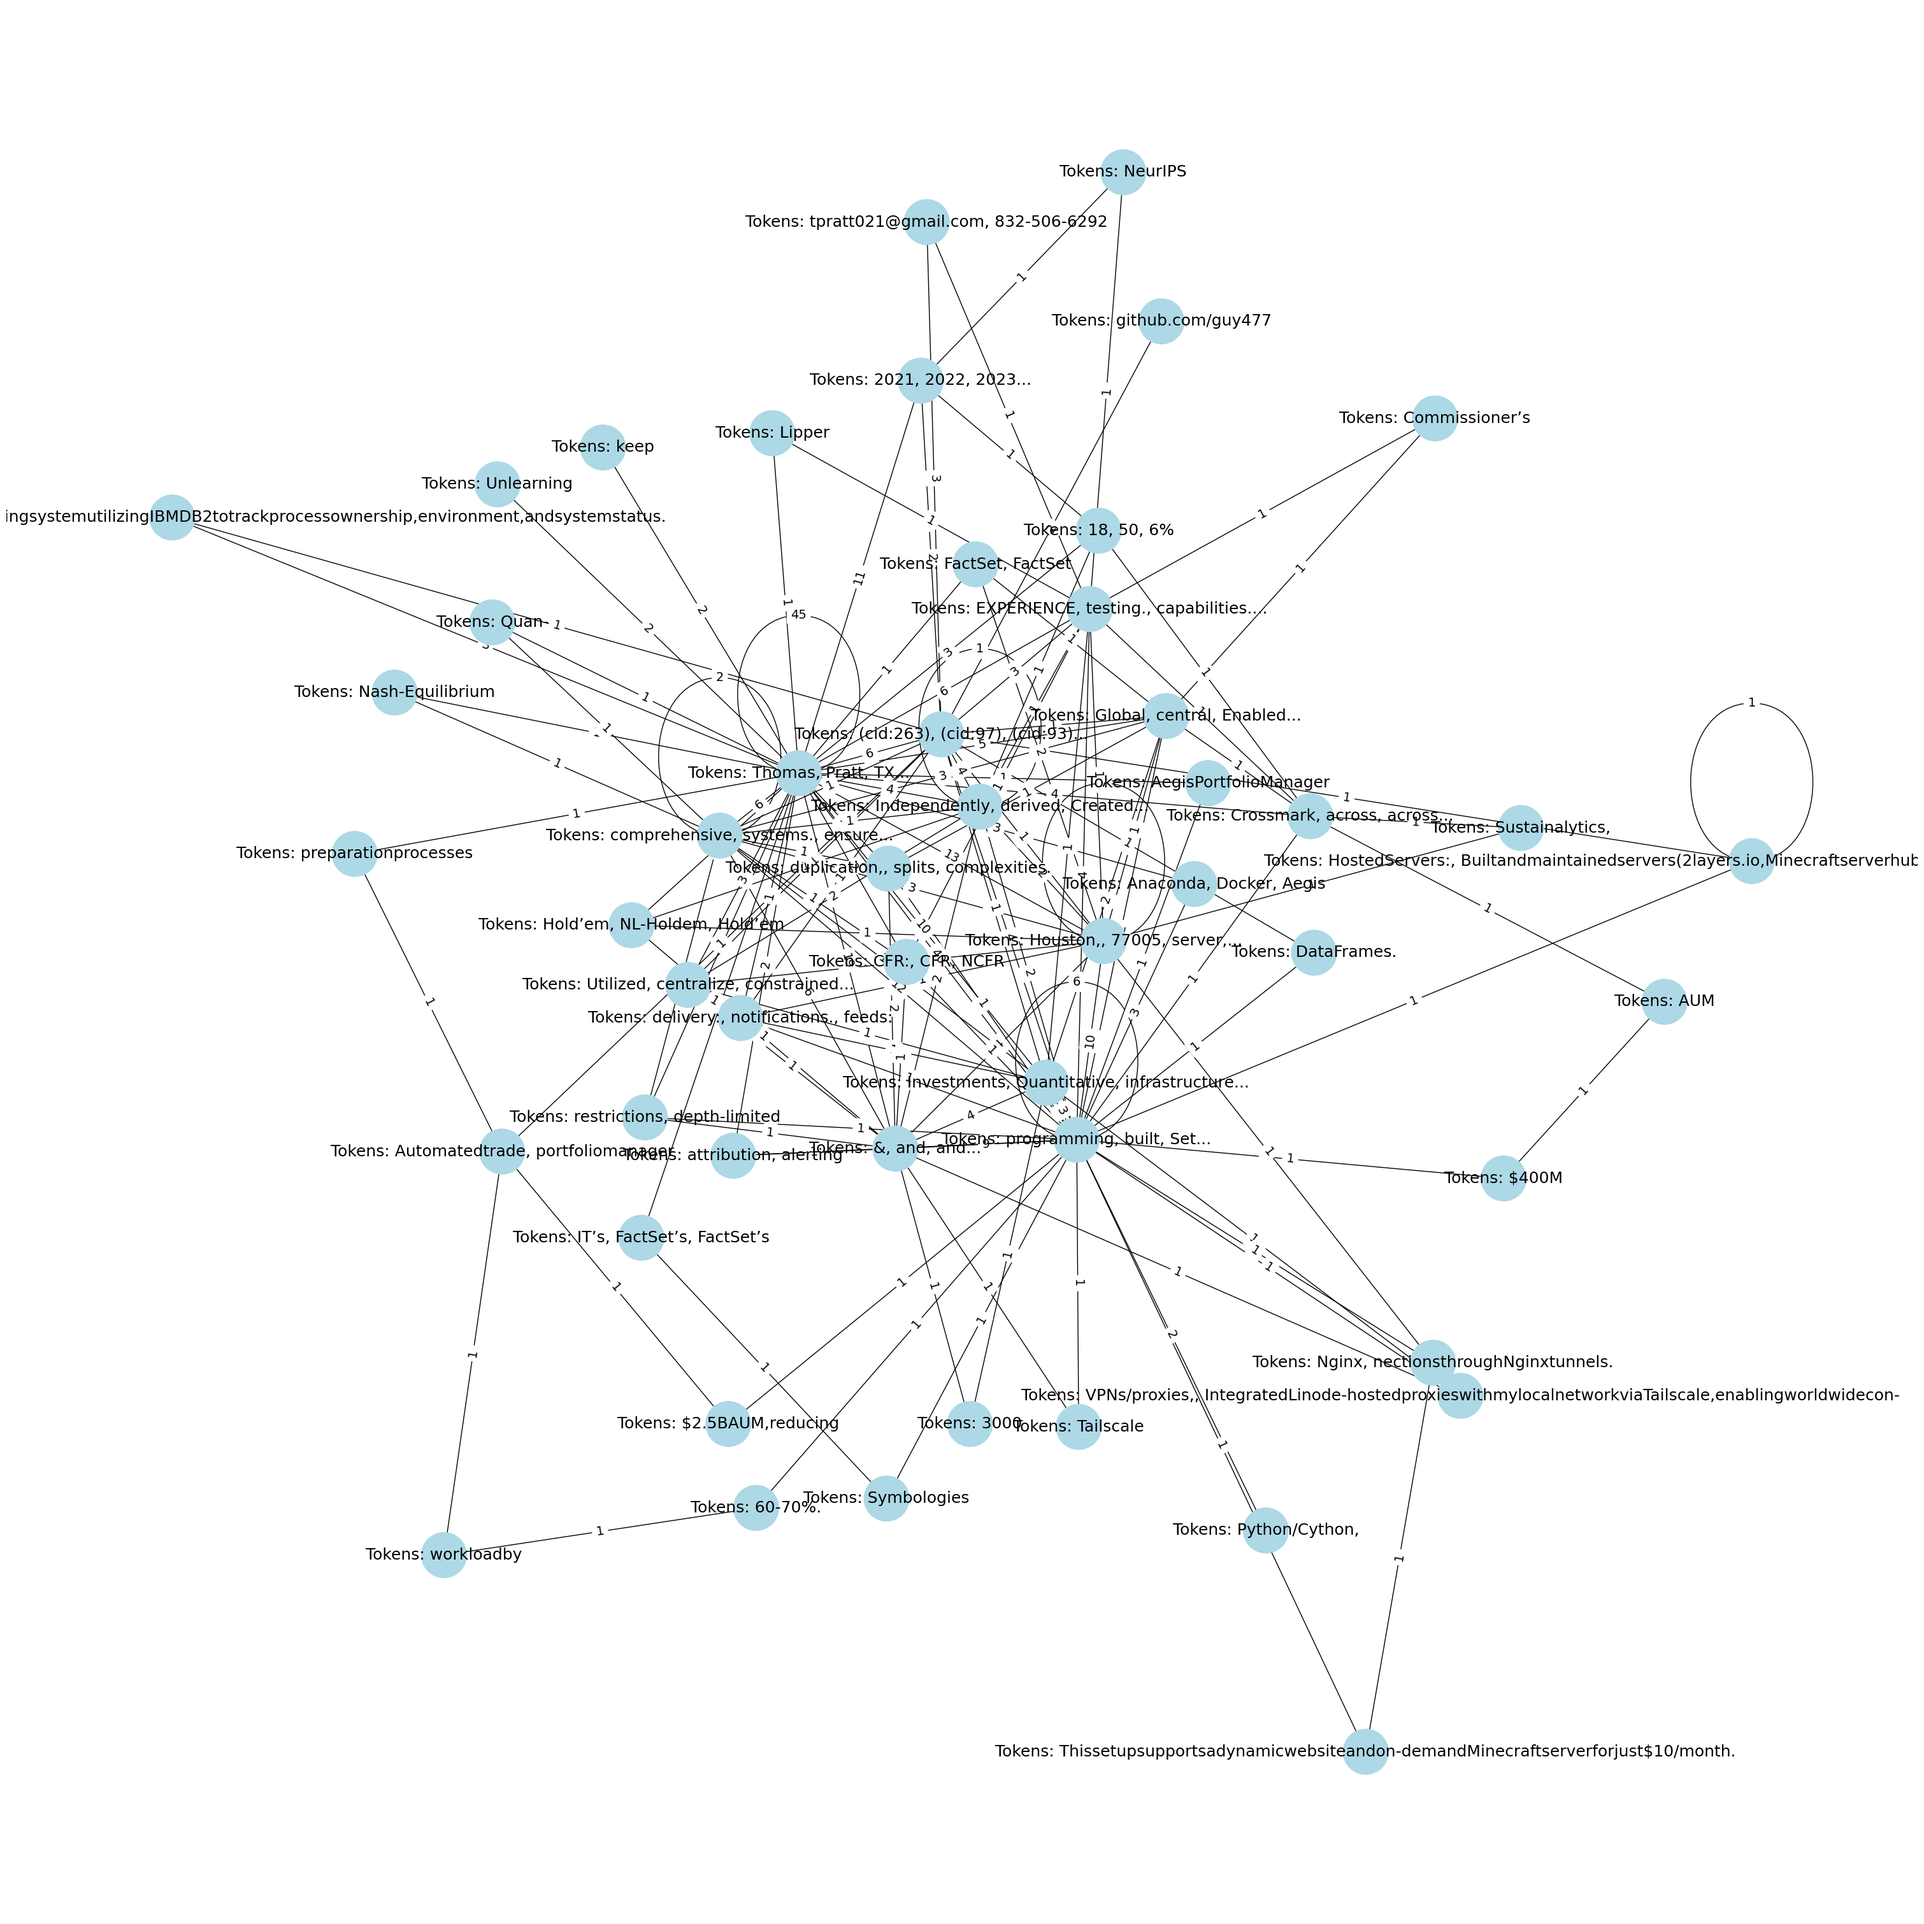
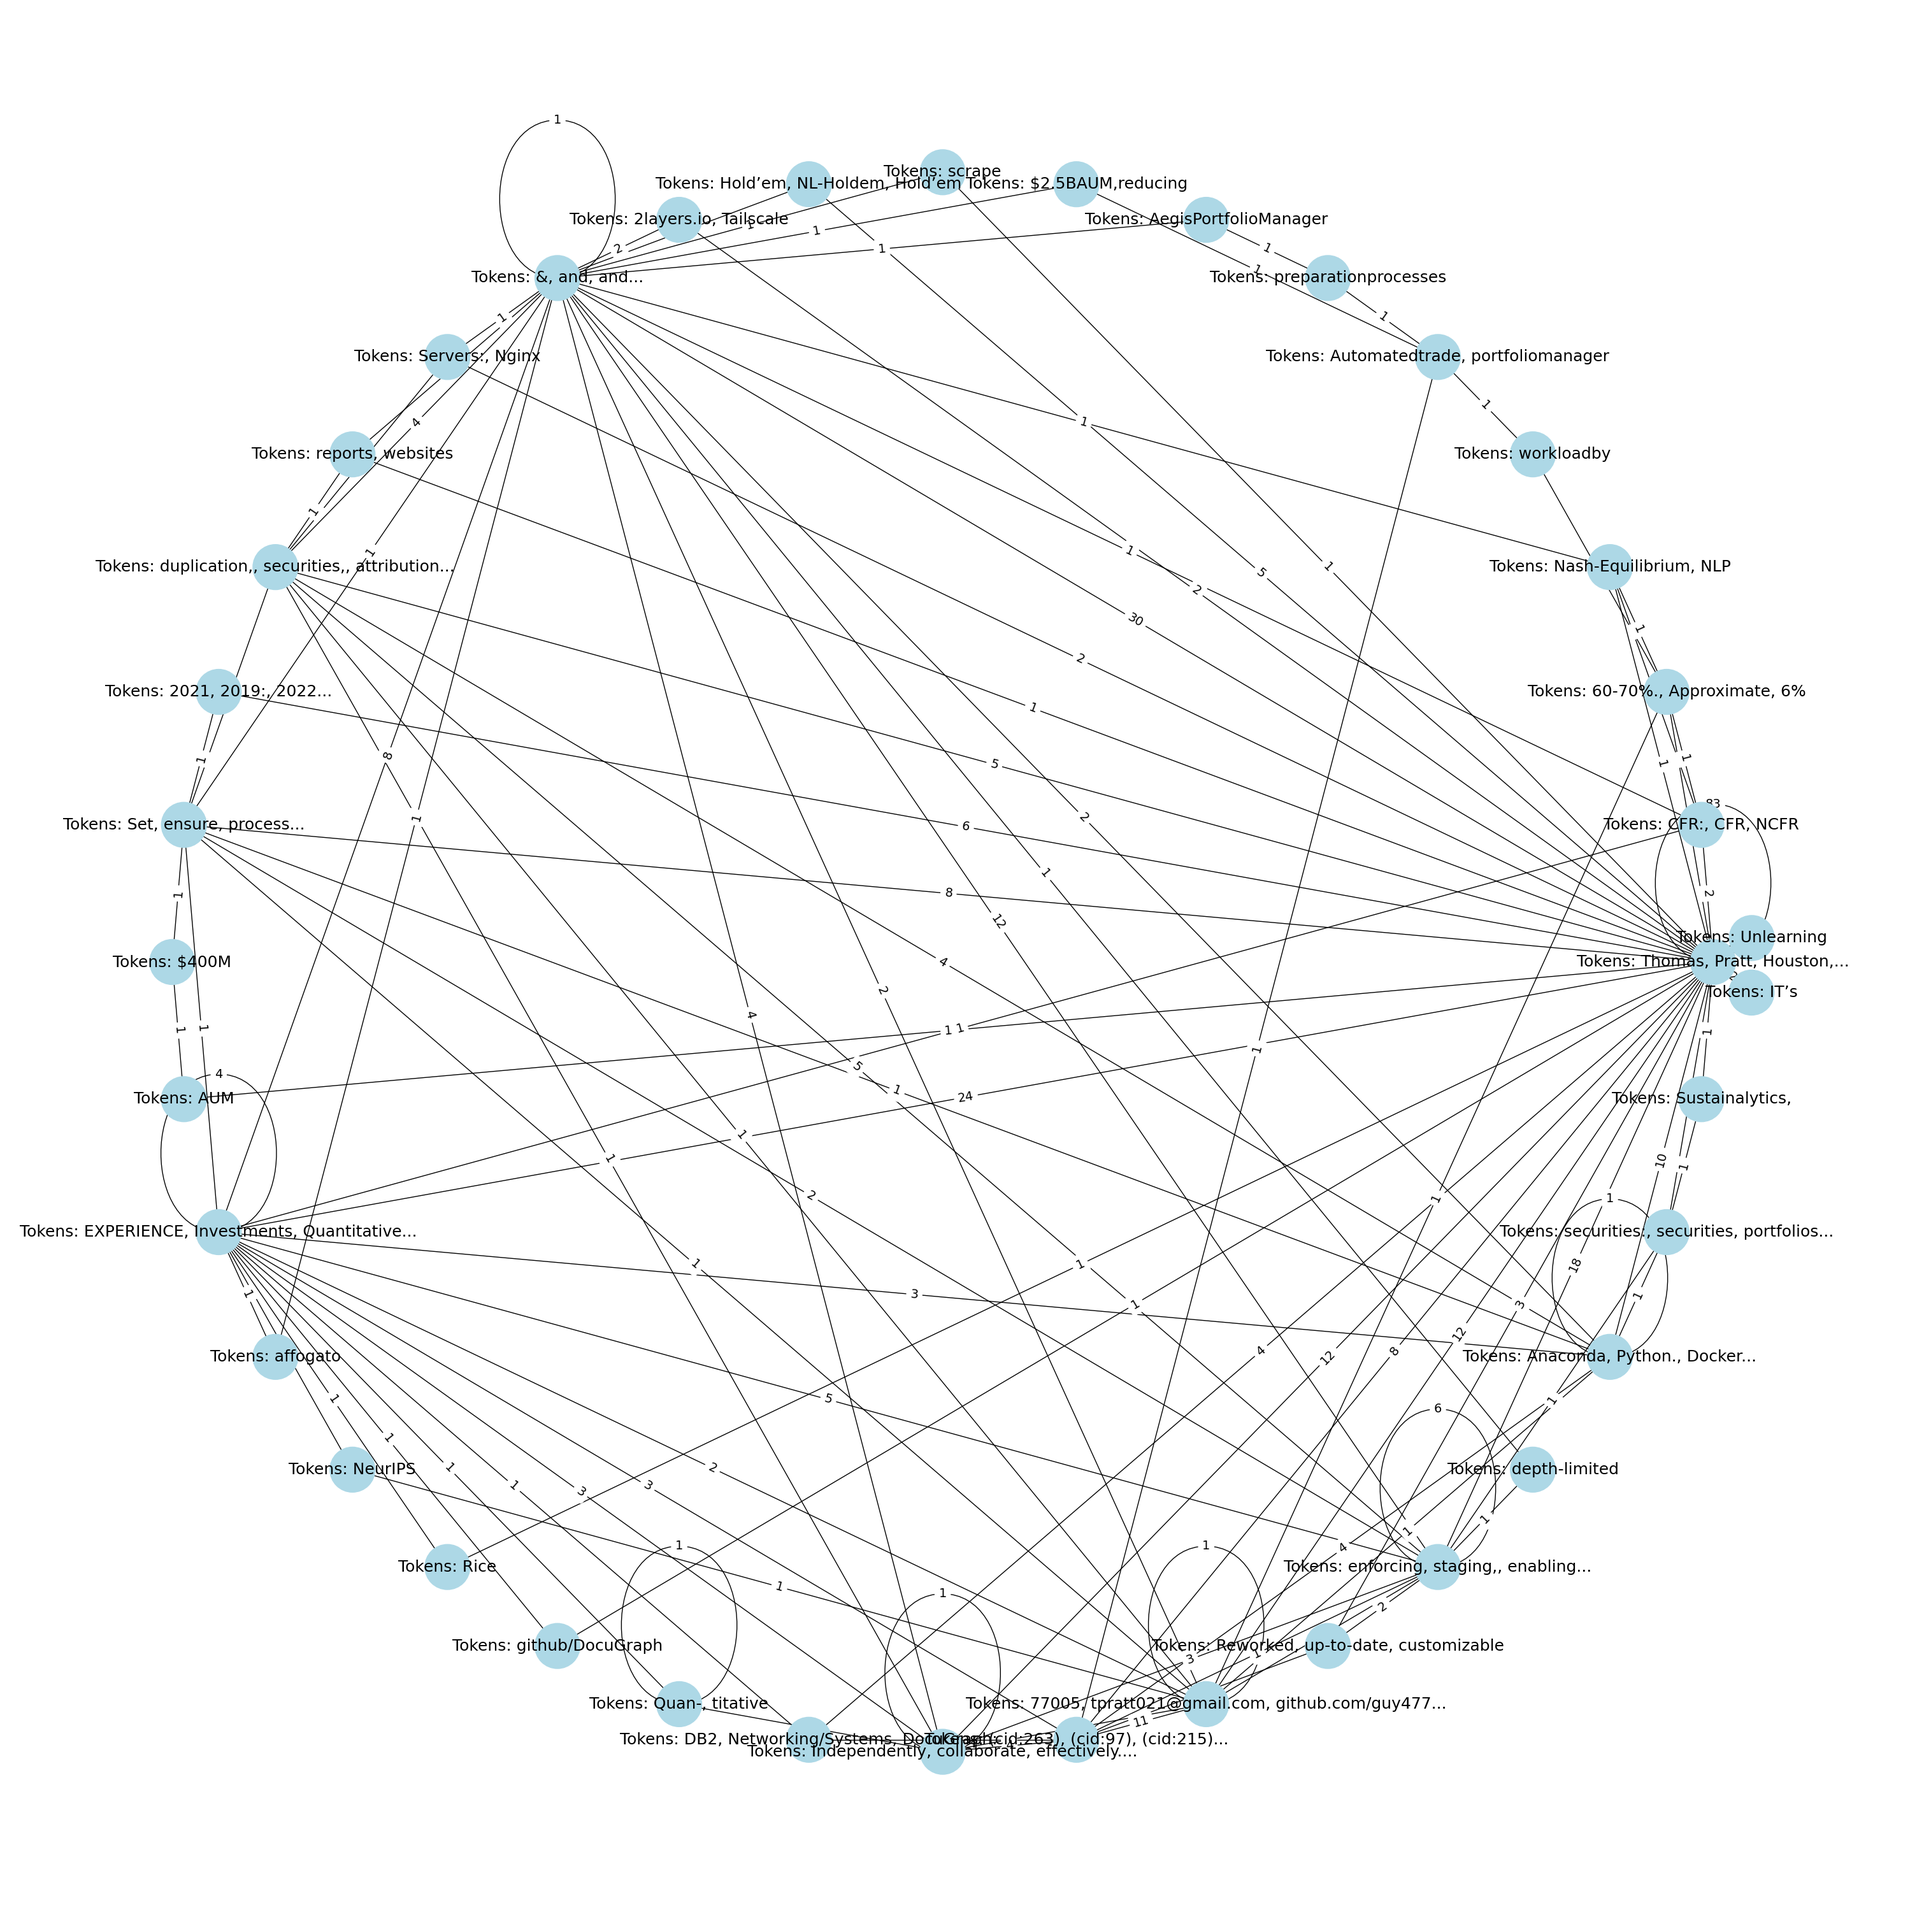
making the graph a little more clear; small tweak to pdf parsing

diff --git a/src/_util/_config.py b/src/_util/_config.py
@@ -2,5 +2,14 @@
 # _________________________________ CONSTANTS __________________________________________#
 # ______________________________________________________________________________________#
 
-SIMILARITY_THRESHOLD = 0.8  # Cosine similarity threshold for embeddings
-WHITESPACE_THRESHOLD = 0.8  # Threshold for whitespace node detection
+# `SIMILARITY_THRESHOLD` determines the threshold for cosine similarity.
+# This value can vary based on the embedding model in use.
+# For instance, with `text-embedding-ada-002`, graph interconnectivity becomes apparent
+# when `SIMILARITY_THRESHOLD` is set between 0.785 and 0.790 [found experimentally].
+# NOTE: 0 means all embeddings are identical; 1 means all embeddings are completely unique.
+SIMILARITY_THRESHOLD = .7875
+
+# `WHITESPACE_THRESHOLD` defines the ratio of whitespace tokens to total tokens in a node,
+# beyond which the node is considered as `whitespace`.
+# NOTE: This threshold is primarily used for visualization purposes.
+WHITESPACE_THRESHOLD = 0.9

diff --git a/src/_util/_utils.py b/src/_util/_utils.py
@@ -76,9 +76,9 @@ def parse_pdf_content(pdf_bytes: bytes) -> str:
             logger.info(f"Number of pages in PDF: {num_pages}")
             text = ''
             for i, page in enumerate(pdf.pages, start=1):
-                page_text = page.extract_text()
+                page_text = page.extract_text(layout=True)
                 if page_text:
-                    text += page_text + ' '  # Add space to separate pages
+                    text += page_text + '\n'  # Add space to separate pages
                     logger.debug(f"Extracted text from page {i}.")
                 else:
                     logger.warning(f"No text found on page {i}.")

diff --git a/src/backend/graph_visualizer.py b/src/backend/graph_visualizer.py
@@ -91,7 +91,7 @@ class GraphVisualizer:
             output_path (str): The file path to save the visualization.
         """
         self.build_graph()
-        pos = graphviz_layout(self.graph, prog='fdp')
+        pos = graphviz_layout(self.graph, prog='circo')
         labels = nx.get_node_attributes(self.graph, 'label')
         edge_labels = nx.get_edge_attributes(self.graph, 'weight')
 
